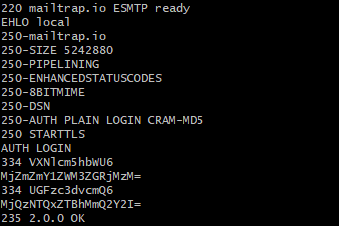
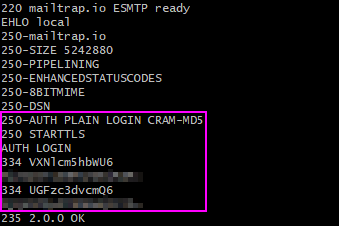
completes and add figures in the README

Changed region(s): [[0.0, 0.4646, 0.6195, 0.9602]]

diff --git a/README.md b/README.md
@@ -19,7 +19,7 @@ Once fed with these data, the client automatically sends the pranks to all group
 
 The client is build using Java and to function, you need a **Java Runtime Environment** (there is no need to install a JRE if you already have a JDK installed). 
 
-You will also need to install **Docker Toolbox** in order to launch the SMTP server in a container. Docker uses Virtual Box as a host for its virtual machine, so if you haven't it installed yet, don't forget to check "Install Virtual Box" during Docker Toolbox installation. Docker Toolbox can be found [here](https://docs.docker.com/toolbox/overview/).
+You will also need to install **Docker Toolbox** in order to launch the mock SMTP server in a container. Docker uses Virtual Box as a host for its virtual machine, so if you haven't it installed yet, don't forget to check "Install Virtual Box" during Docker Toolbox installation. Docker Toolbox can be found [here](https://docs.docker.com/toolbox/overview/).
 
 ### Setting up the mock SMTP server 
 
@@ -71,19 +71,41 @@ You're all set !  To begin the campaign, run the mock server and start the clien
 
 1. From the Docker shell, run a container with the following command : `docker run -p 25000:25 -p 8282:8282 heigvd/smtpserver`
 
-2. From a shell, go to the project location, then launch the jar with the following command :
+2. From a shell, **go to the project location**, then launch the jar with the following command :
 
    `java -jar target/Lab_SMTP-1.0-SNAPSHOT-launcher.jar -c conf/mockmock_conf.properties -v conf/victims.utf8 -p conf/pranks.utf8`
 
-   Parameters work as follow : `-c` to choose a configuration file, `-v` to choose a victims file and `-p` to choose a pranks file. You are free to create your own files and use them !
+   Parameters work as follow : `-c` to choose a configuration file, `-v` to choose a victims file and `-p` to choose a pranks file. You are free to create your own files and use them.
 
 You can now have a look at the result by opening your Internet browser and navigate to [http://localhost:8282].
+
+### Usage example
+
+Here is what happen when you send a prank using MockMock SMTP Server : first, the client displays all the communication with the server on the terminal.
+
+![mockmock2](figures/mockmock_prank_campaign2.png)
+
+As we can see, one of the victims has been chosen as the sender, while the others are the recipients. We can now go to our web browser and open [http://localhost:8282]. Here, the mock SMTP Server displays all the messages sent.
+
+![mockmock3](figures/mockmock_prank_campaign3.png)
+
+If we click on the subject, we are redirected on the message information page, where we can see more detailed data.
+
+![mockmock4](figures/mockmock_prank_campaign4.png)
+
+#### Authentication
+
+In case the SMTP server requires authentication, there is one more step in the communication between the client and the server. This step is visible on the console during the campaign.
+
+![auth](figures/SMTP_AUTH.png)
+
+As long as a username and a password are provided in the configuration file, this step is fully handled by the client.
 
 ### Implementation description
 
 GetPrankd uses Java with an Object Oriented implementation. The code structure is the following :
 
-[img]
+![UML](figures/Top-Level Package.png)
 
 #### GetPrankd
 
